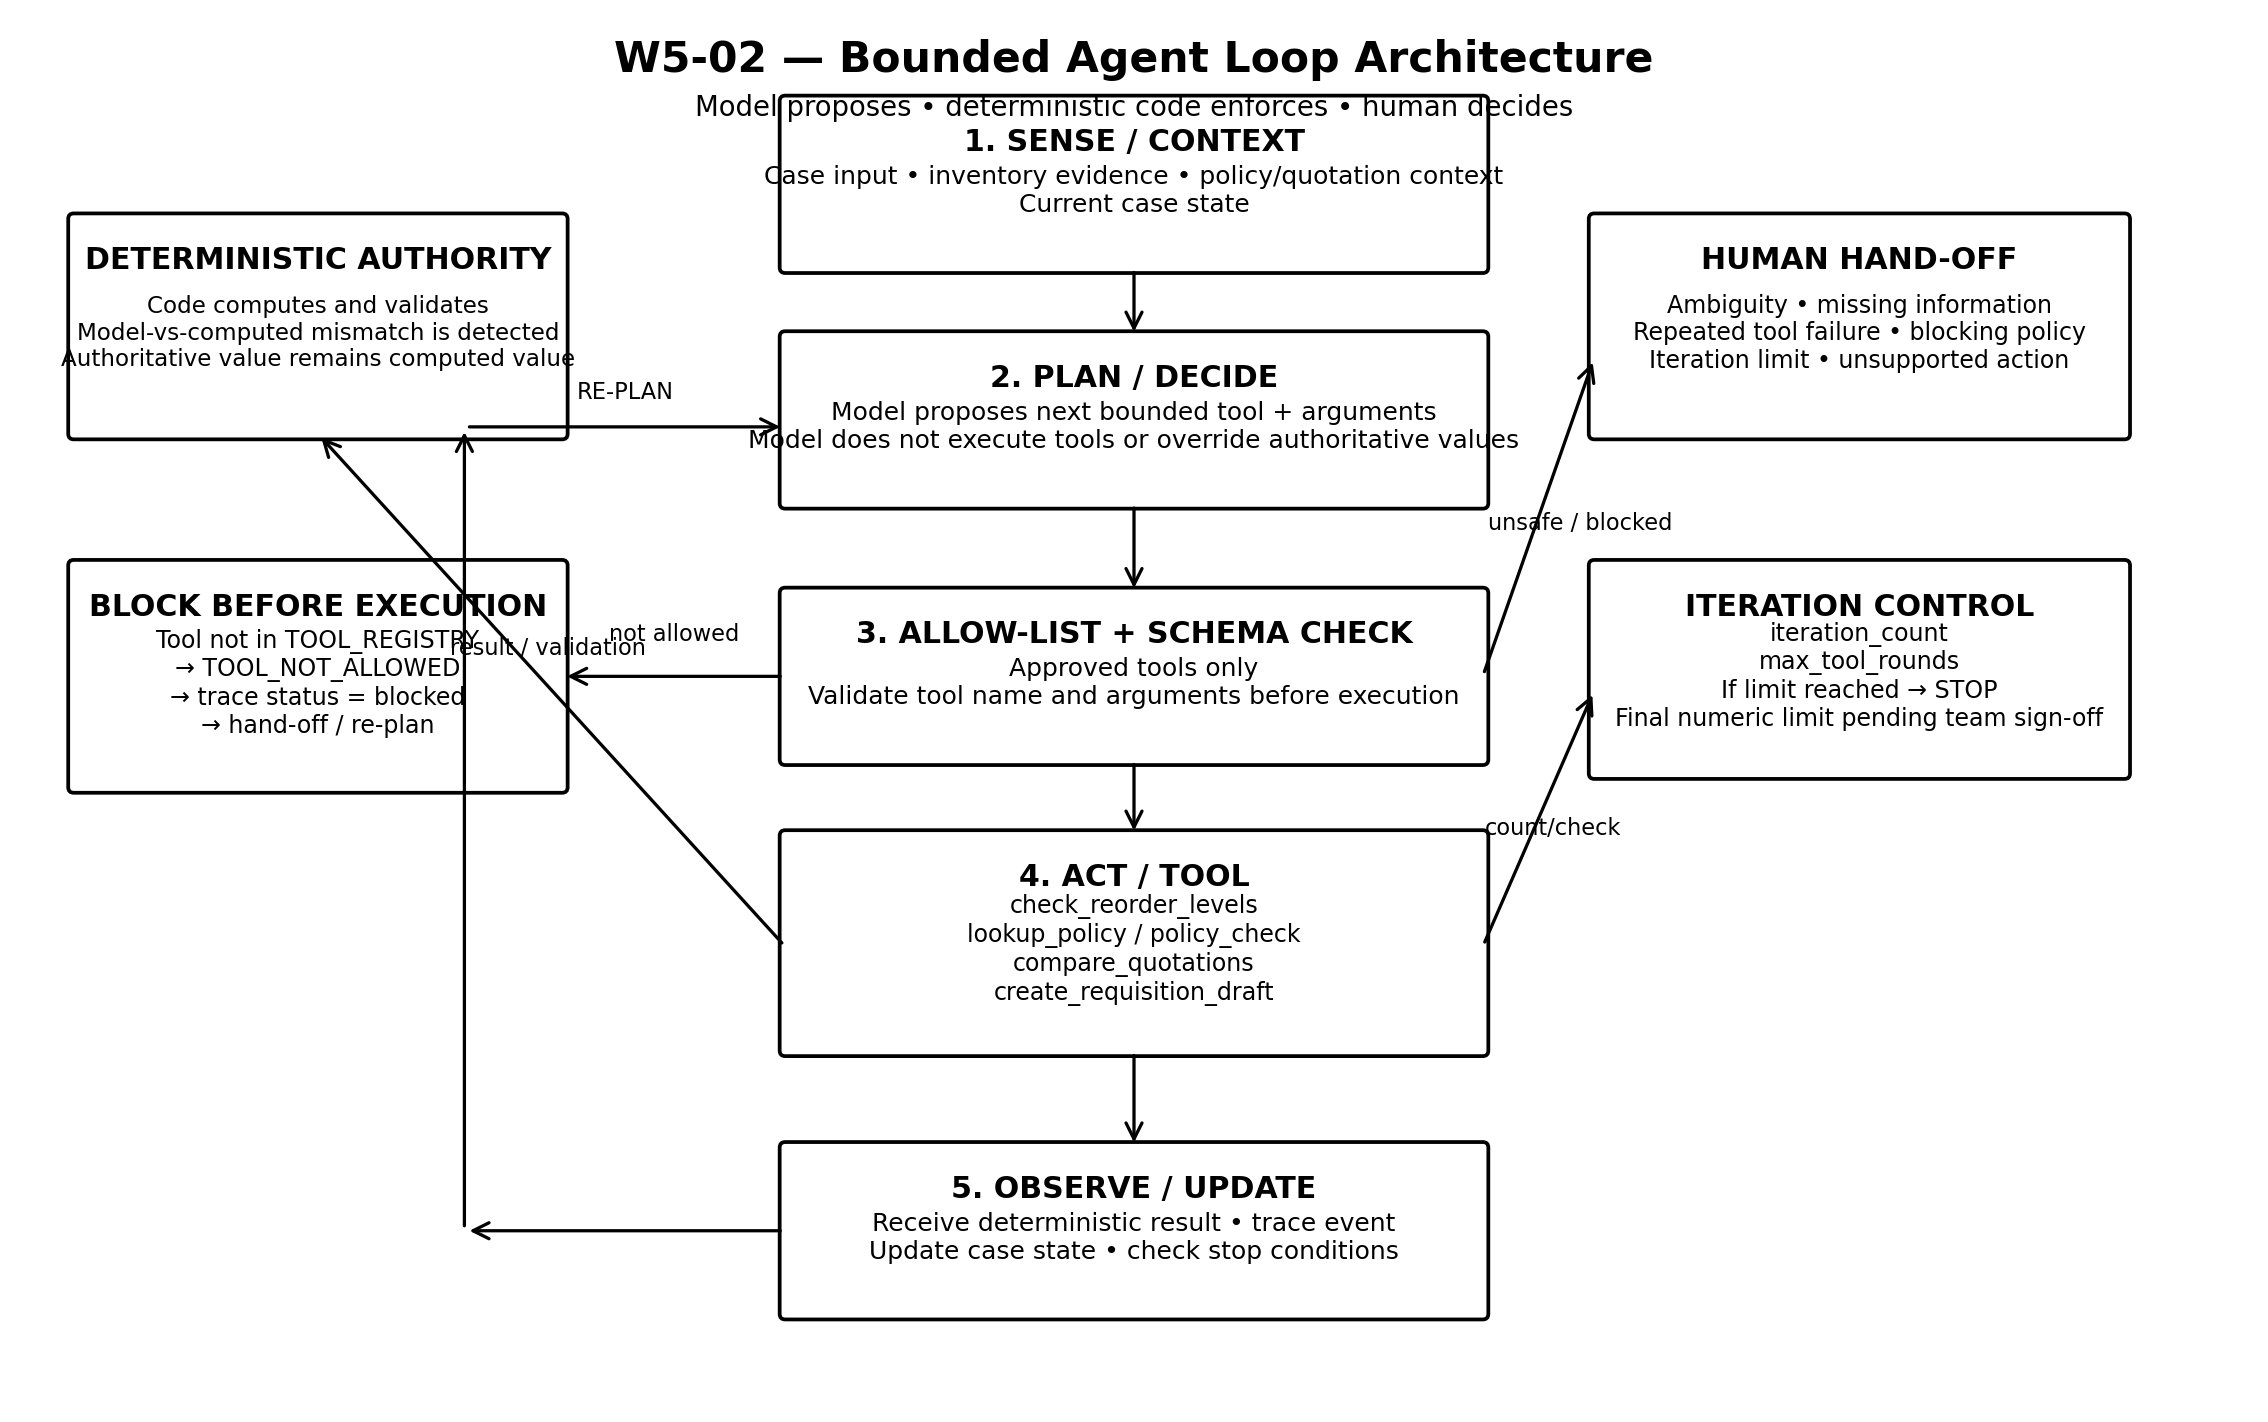
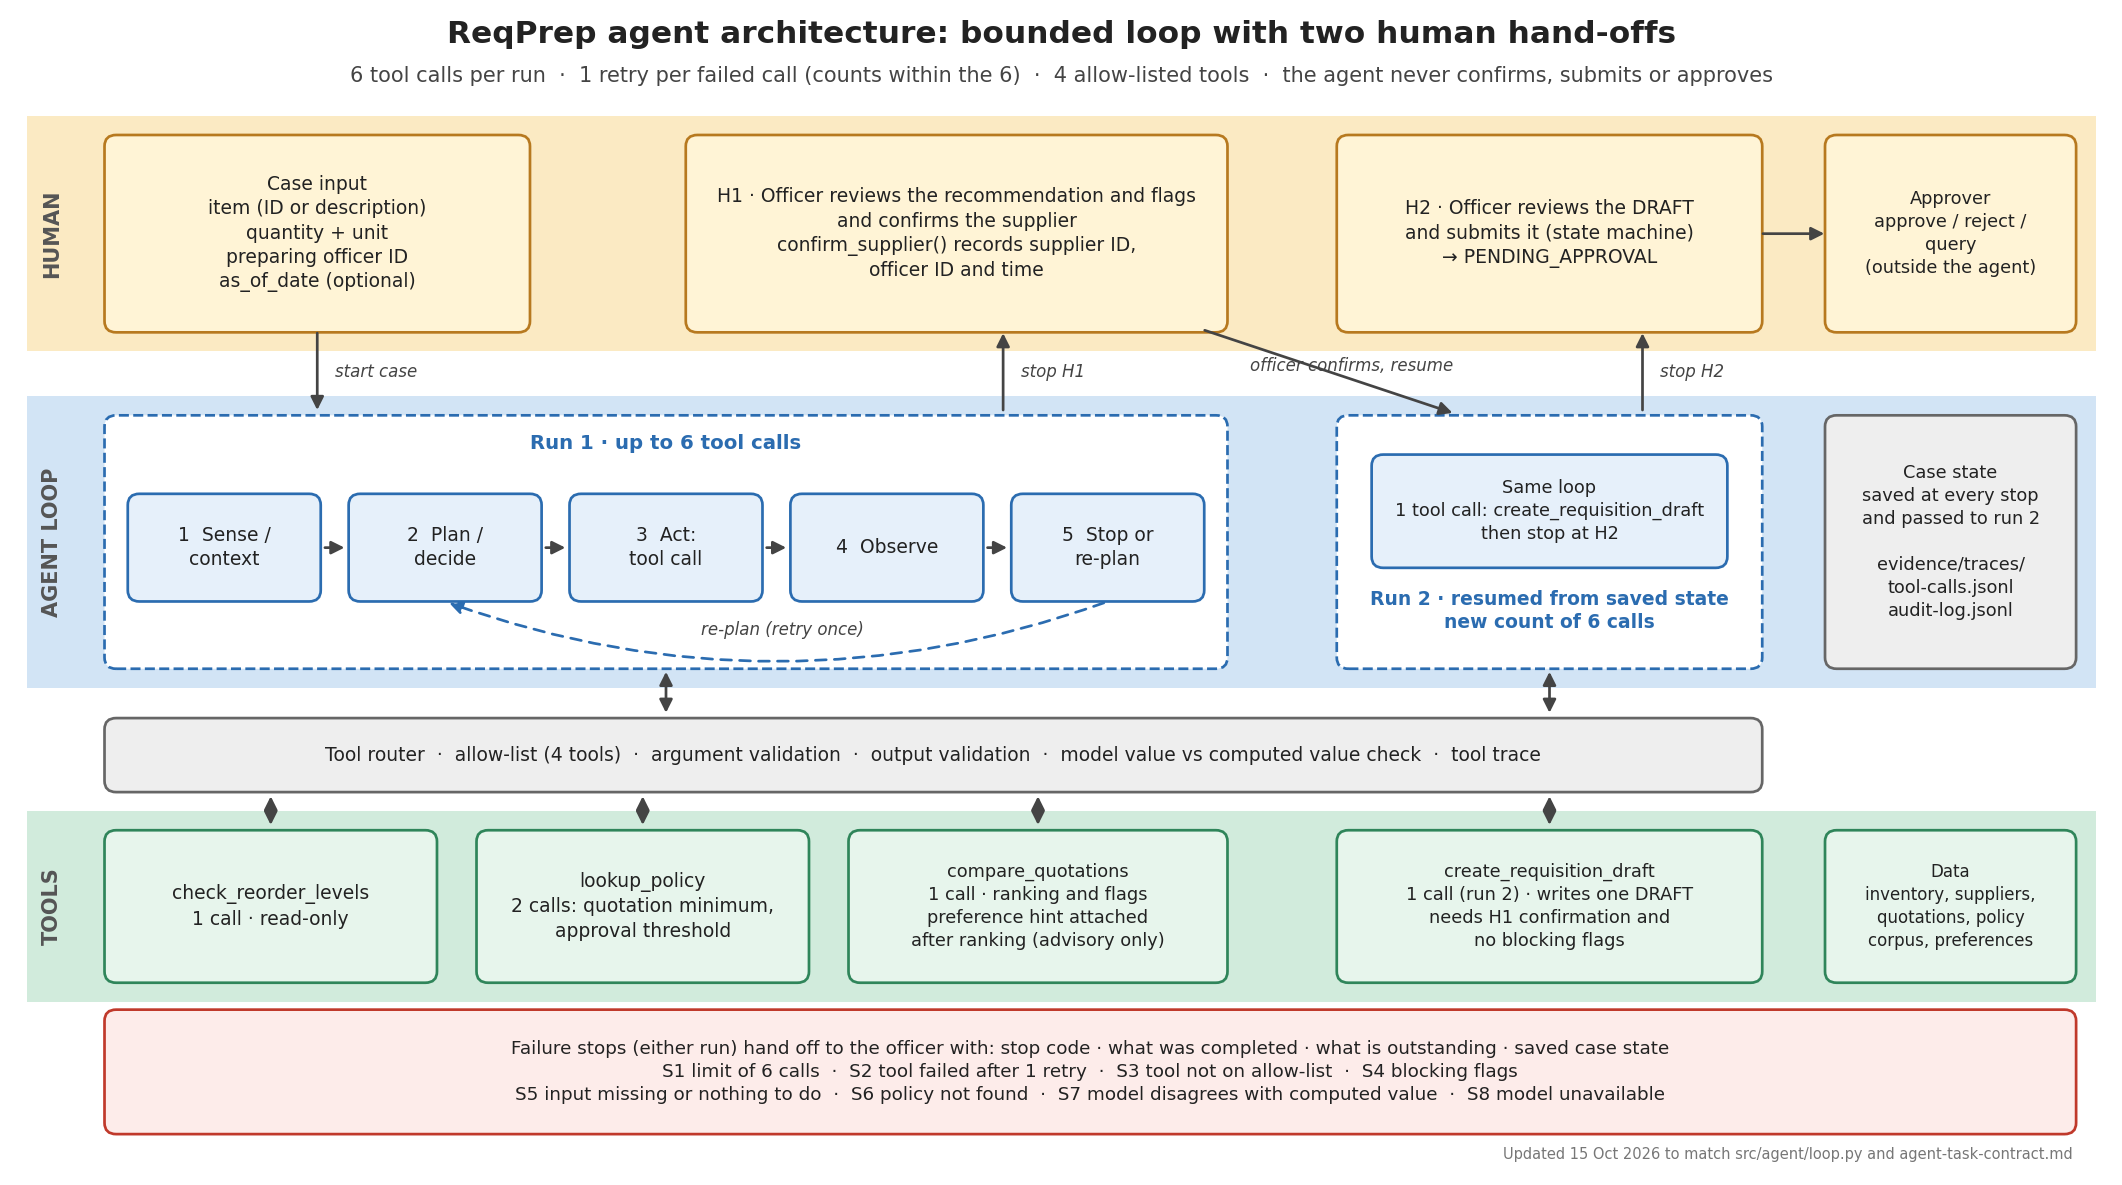
W5-01/W5-02: set iteration limit to 6, sign off contract sections 3, 4, 8, update architecture diagram

diff --git a/BSE4104-SME-PROCUREMENT-AGENT/docs/requirements/project-charter.md b/BSE4104-SME-PROCUREMENT-AGENT/docs/requirements/project-charter.md
@@ -84,7 +84,7 @@ One end-to-end workflow: **reorder signal to approved requisition, for a single 
 | 7. Approval decision | Requisition approved, rejected or queried | Human |
 | 8. Outcome | Approved requisition retained with its evidence trail; case state persisted | Deterministic |
 
-**Bounded agency.** The agent operates within a fixed maximum of **[PLACEHOLDER: proposed 6]** tool-call iterations, may invoke only allow-listed tools, and hands off to the human with partial state intact when a limit is reached, a required input is unavailable, or a tool fails repeatedly.
+**Bounded agency.** The agent operates within a fixed maximum of **6** tool-call iterations per run (at most one retry per failed call, counted within the 6), may invoke only allow-listed tools, and hands off to the human with partial state intact when a limit is reached, a required input is unavailable, or a tool fails repeatedly.
 
 ## 8. Project scope
 

diff --git a/BSE4104-SME-PROCUREMENT-AGENT/docs/requirements/project-definition.md b/BSE4104-SME-PROCUREMENT-AGENT/docs/requirements/project-definition.md
@@ -57,7 +57,7 @@ Reorder signal to approved requisition, **one stock item per case**.
 | 7 | Approver approves, rejects or queries | Human |
 | 8 | Decision recorded with full evidence trail; case state persisted | Deterministic |
 
-Bounded agency: fixed maximum of **[PLACEHOLDER: proposed 6]** tool-call iterations, allow-listed tools only, hand-off with partial state preserved on any stop condition.
+Bounded agency: fixed maximum of **6** tool-call iterations per run (at most one retry per failed call, counted within the 6), allow-listed tools only, hand-off with partial state preserved on any stop condition.
 
 ## 9. Why AI adds value
 
